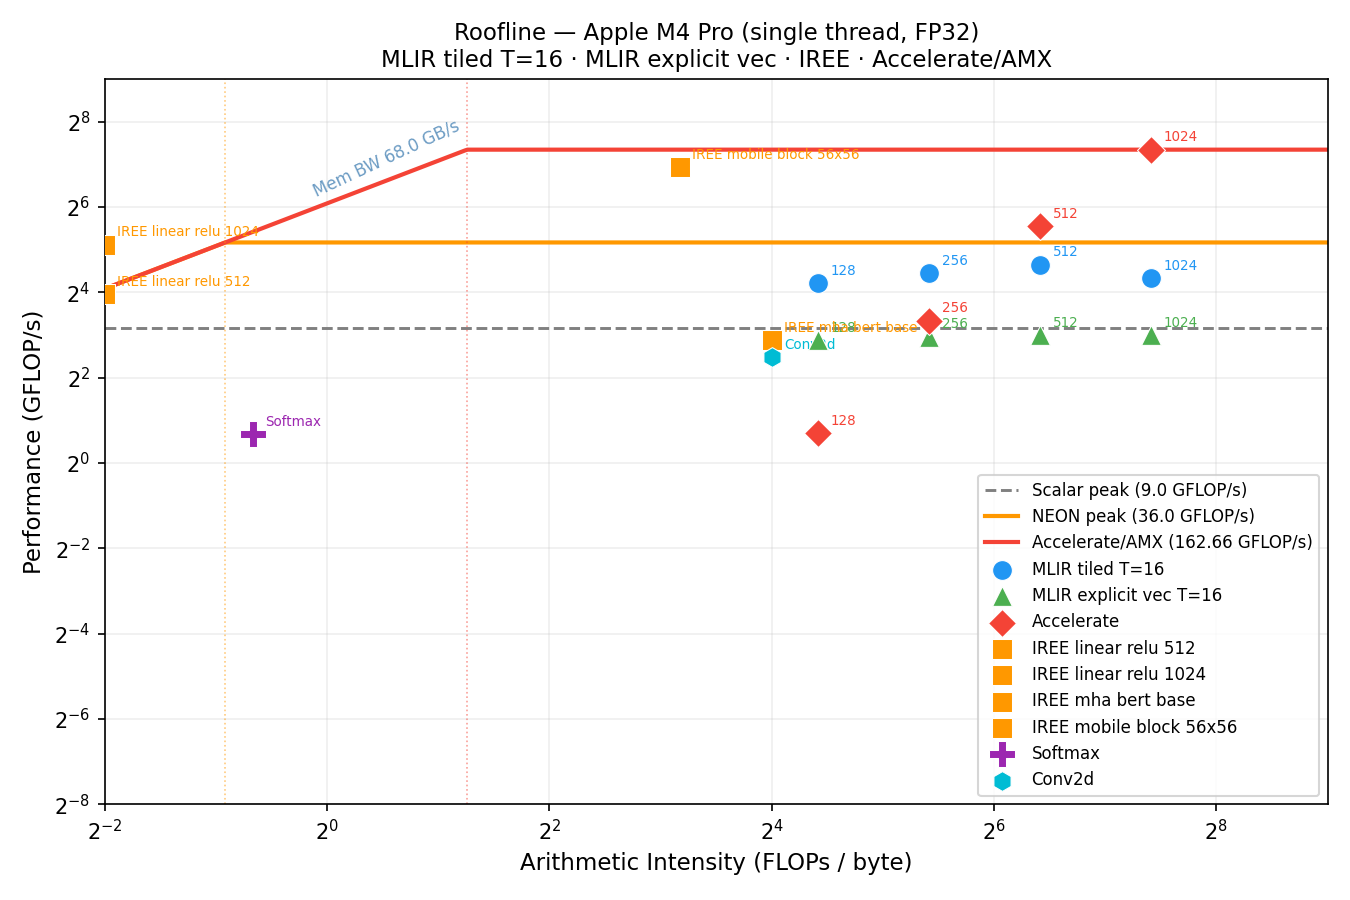
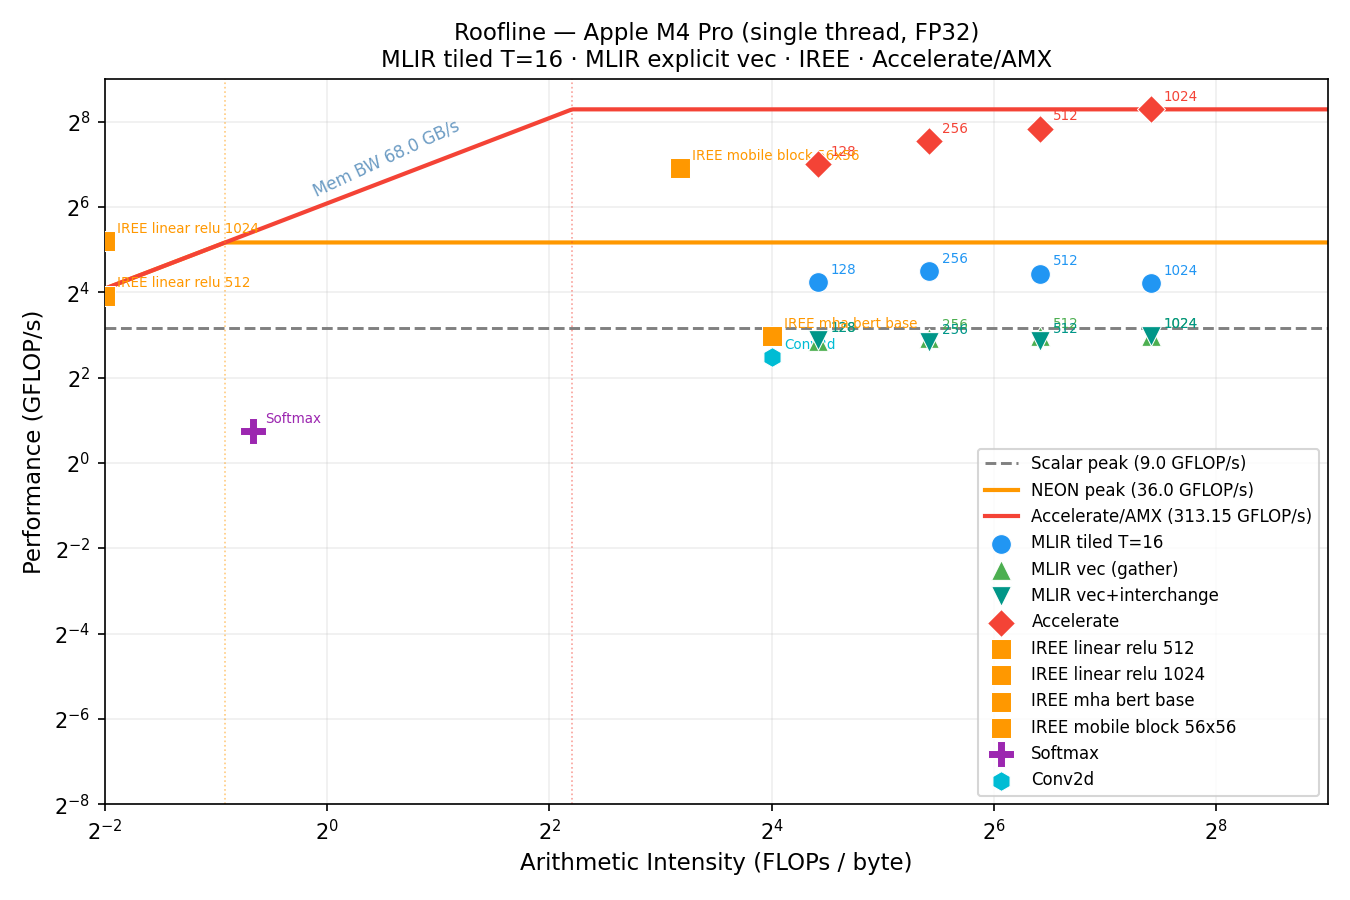
Update mlir-study.html

diff --git a/posts/mlir-study.html b/posts/mlir-study.html
@@ -97,7 +97,7 @@
             <p>
                 The roofline plot below situates all measured kernels against the hardware performance ceilings of
                 the M4 Pro. The three ceiling lines correspond to scalar FP32 peak (\(9\,\text{GFLOP/s}\)), NEON FP32 peak
-                (\(36\,\text{GFLOP/s}\)), and Accelerate/AMX (\(162.66\,\text{GFLOP/s}\) measured at \(N=1024\)). Generated by
+                (\(36\,\text{GFLOP/s}\)), and Accelerate/AMX (\(313\,\text{GFLOP/s}\) measured at \(N=1024\)). Generated by
                 <a href="https://github.com/FedericoBruzzone/mlir-study/blob/main/scripts/plot_roofline.py">plot_roofline.py</a>
                 from <a href="https://github.com/FedericoBruzzone/mlir-study/blob/main/results/roofline.csv">roofline.csv</a>.
             </p>
@@ -128,13 +128,14 @@
             </figure>
 
             <p>
-                A few things to notice. <b>MLIR tiled T=16</b> (blue circles) sits between the scalar ceiling
-                (\(9\,\text{GFLOP/s}\)) and the NEON ceiling (\(36\,\text{GFLOP/s}\)), reaching \(18\text{–}26\,\text{GFLOP/s}\) depending on \(N\) — the
-                auto-vectorizer fires, but not to NEON peak. <b>MLIR explicit vec T=16</b> (green triangles)
-                lands consistently <i>below the scalar ceiling</i>, confirming that
-                <code>affine-super-vectorize</code> constrains the backend more than it helps.
-                <b>Accelerate</b> (red diamonds) hugs the AMX ceiling at large \(N\).
-                The <b>IREE mobile block</b> reaches \(121.7\,\text{GFLOP/s}\) — between NEON and AMX ceilings — thanks to
+                <b>MLIR tiled T=16</b> (blue circles) sits between the scalar and NEON ceilings,
+                reaching \(18\text{–}25\,\text{GFLOP/s}\) — the auto-vectorizer fires, but not to NEON peak.
+                <b>MLIR vec (gather)</b> (▲) and <b>MLIR vec+interchange</b> (▼) both land below the scalar ceiling:
+                the gather variant suffers from stride-\(N\) loads on \(B\); interchange fixes the loop order but
+                still emits masked scalar loads — the two are indistinguishable in wall-clock time.
+                <b>Accelerate</b> (red diamonds) exceeds the AMX ceiling at large \(N\), consistent with
+                \(313\,\text{GFLOP/s}\) measured at \(N=1024\).
+                The <b>IREE mobile block</b> reaches \(109.1\,\text{GFLOP/s}\) — between NEON and AMX — thanks to
                 its fused depthwise+pointwise lowering.
             </p>
 
@@ -149,7 +150,7 @@
                 \(4\,\text{lanes f32}\,(128\text{-bit}) \times 2\,\text{FLOPs/lane (FMA)} \times 4.5\,\text{GHz} = 36\,\text{GFLOP/s}\).
                 Assumes 1 NEON FMA pipe; no measurement.
                 <br>
-                <b>AMX/Accelerate \(162.66\,\text{GFLOP/s}\)</b> — measured:
+                <b>AMX/Accelerate \(313\,\text{GFLOP/s}\)</b> — measured:
                 <code>cblas_sgemm</code> at \(N=1024\) with the NITER loop, read from
                 <a href="https://github.com/FedericoBruzzone/mlir-study/blob/main/results/rq5_vs_baseline.csv">rq5_vs_baseline.csv</a>.
                 This is a proxy for the AMX ceiling, not the theoretical peak of the coprocessor —
@@ -170,6 +171,7 @@
                 <li><b>Tiled</b> — Affine + <code>affine-loop-tile=tile-sizes=T,T,T</code> (<a href="https://github.com/FedericoBruzzone/mlir-study/blob/main/pipelines/to_affine_tiled.sh">to_affine_tiled.sh</a>)</li>
                 <li><b>Fused</b> — Tiled + <code>affine-loop-fusion</code> (<a href="https://github.com/FedericoBruzzone/mlir-study/blob/main/pipelines/to_affine_fused.sh">to_affine_fused.sh</a>)</li>
                 <li><b>Vectorized</b> — Tiled + <code>affine-super-vectorize</code> (explicit NEON) (<a href="https://github.com/FedericoBruzzone/mlir-study/blob/main/pipelines/to_vector.sh">to_vector.sh</a>)</li>
+                <li><b>Vec+Interchange</b> — Tiled + <code>--enable-loopinterchange</code> + <code>affine-super-vectorize</code> (<a href="https://github.com/FedericoBruzzone/mlir-study/blob/main/pipelines/to_vector_interchange.sh">to_vector_interchange.sh</a>)</li>
             </ul>
 
             <p>
@@ -290,12 +292,15 @@
             <h3>RQ5 — MLIR standard passes vs. Apple Accelerate (AMX)</h3>
 
             <p>
-                At \(N=1024\) there is an <b>\(8\times\) performance gap</b> between the best MLIR tiled kernel (\({\sim}20\,\text{GFLOP/s}\)
-                at \(T=16\), \({\sim}24\,\text{GFLOP/s}\) at \(T=32\)) and Apple Accelerate (\(162.66\,\text{GFLOP/s}\)). Explicit MLIR vectorization via
-                <code>affine-super-vectorize</code> is <b>\(2.5\times\) slower</b> than relying on LLVM's auto-vectorizer
-                (\(8\) vs \(20\,\text{GFLOP/s}\) at \(N=1024\)):
-                constraining the backend with explicit vector ops takes away the freedom it needs to schedule
-                well. AMX is inaccessible from any MLIR standard pass
+                At \(N=1024\) there is a <b>\({\sim}17\times\) performance gap</b> between the best MLIR tiled kernel (\({\sim}18.6\,\text{GFLOP/s}\)
+                at \(T=16\)) and Apple Accelerate (\(313\,\text{GFLOP/s}\)).
+                Explicit MLIR vectorization via <code>affine-super-vectorize</code> (<b>MLIR vec, gather</b>) is
+                <b>\({\sim}2.4\times\) slower</b> than the auto-vectorized tiled path (\(7.8\) vs \(18.6\,\text{GFLOP/s}\)):
+                the vectorizer puts \(k\) innermost, causing a stride-\(N\) gather on \(B\) instead of unit-stride loads.
+                Adding <code>--enable-loopinterchange</code> (<b>vec+interchange</b>) reorders the loop so \(j\) is
+                innermost (unit-stride for \(B\) and \(C\)), but the improvement is negligible (\(7.88\,\text{GFLOP/s}\)): the
+                vectorizer still emits <code>vector.transfer_read</code> without <code>in_bounds</code>, forcing masked
+                scalar loads even on contiguous accesses. AMX is inaccessible from any MLIR standard pass
                 (<a href="https://github.com/FedericoBruzzone/mlir-study/blob/main/scripts/rq5_vs_baseline.sh">rq5_vs_baseline.sh</a>, <a href="https://github.com/FedericoBruzzone/mlir-study/blob/main/results/rq5_vs_baseline.csv">rq5_vs_baseline.csv</a>).
             </p>
 
@@ -337,21 +342,21 @@
                         <td><code>mha_bert_base</code></td>
                         <td><code>MultiheadAttention(d=768, heads=12, seq=128)</code></td>
                         <td>Self-attention layer in BERT-base — Q/K/V projections, softmax, weighted sum</td>
-                        <td>8.2</td>
+                        <td>7.66</td>
                     </tr>
                     <tr>
                         <td><code>mobile_block_56x56</code></td>
                         <td>Depthwise Conv2d(32, 3×3) + Pointwise Conv2d(32→16, 1×1)</td>
                         <td>MobileNetV2-style inverted residual block (depthwise-separable convolution)</td>
-                        <td>121.7</td>
+                        <td>109.1</td>
                     </tr>
                 </tbody>
             </table>
             </div>
 
             <p>
-                The <b>mobile block</b> reaches <b>\(121.7\,\text{GFLOP/s}\)</b> — well above the NEON ceiling (\(36\,\text{GFLOP/s}\))
-                and approaching the AMX ceiling (\(162.66\,\text{GFLOP/s}\)). This is not a measurement artifact: IREE's
+                The <b>mobile block</b> reaches <b>\(109.1\,\text{GFLOP/s}\)</b> — well above the NEON ceiling (\(36\,\text{GFLOP/s}\))
+                and approaching the AMX ceiling (\(313\,\text{GFLOP/s}\)). This is not a measurement artifact: IREE's
                 lowering stack fuses the depthwise and pointwise convolutions into a single tiled kernel,
                 unlocking data reuse that neither pass can achieve independently. The depthwise convolution
                 alone has very low arithmetic intensity, but after pointwise fusion the combined kernel becomes
@@ -376,7 +381,7 @@
                     </tr>
                     <tr>
                         <td>MLIR tiled T=16</td>
-                        <td><b>~20</b></td>
+                        <td><b>~19</b></td>
                         <td>\(8\times\)</td>
                     </tr>
                     <tr>
@@ -386,8 +391,8 @@
                     </tr>
                     <tr>
                         <td>Apple Accelerate (AMX)</td>
-                        <td>~163</td>
-                        <td>\(70\times\)</td>
+                        <td>~313</td>
+                        <td>\({\sim}130\times\)</td>
                     </tr>
                 </tbody>
             </table>

diff --git a/index.html b/index.html
@@ -51,7 +51,7 @@
                     <h2>Personal Info</h2>
                     <table>
                         <tr>
-                            <td align="left" colspan="2"><small>7th of <strong>March 2000</strong> Magenta (MI), 20013, IT</small></td>
+                            <td align="left" colspan="2"><small>7th of March 2000 Magenta (MI), 20013, IT</small></td>
                         </tr>
                         <tr>
                             <td align="left" colspan="2"><small>Strada Marcallo 5, Magenta (MI), 20013, IT</small></td>
@@ -60,7 +60,7 @@
                             <td><a href="mailto:[email redacted]">[email redacted]</a></td>
                         </tr>
                         <tr>
-                            <td><a href="mailto:[email redacted]">[email redacted]</a></td>
+                            <td><a href="mailto:[email redacted]">[email redacted]</a></td>
                         </tr>
                         <tr>
                             <td><a href="tel:[phone redacted]">[phone redacted]</a></td>